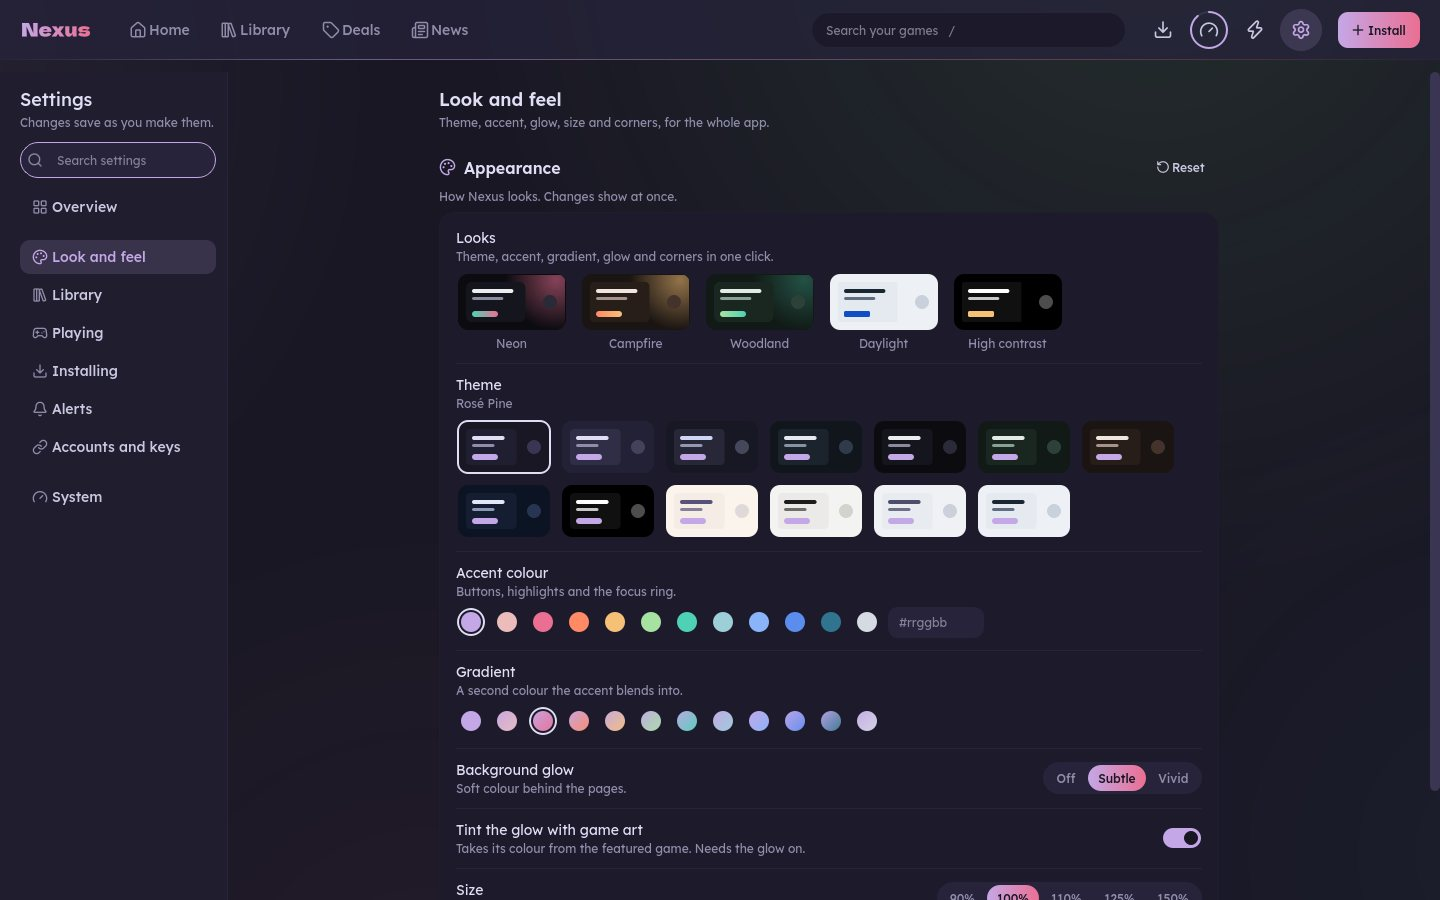
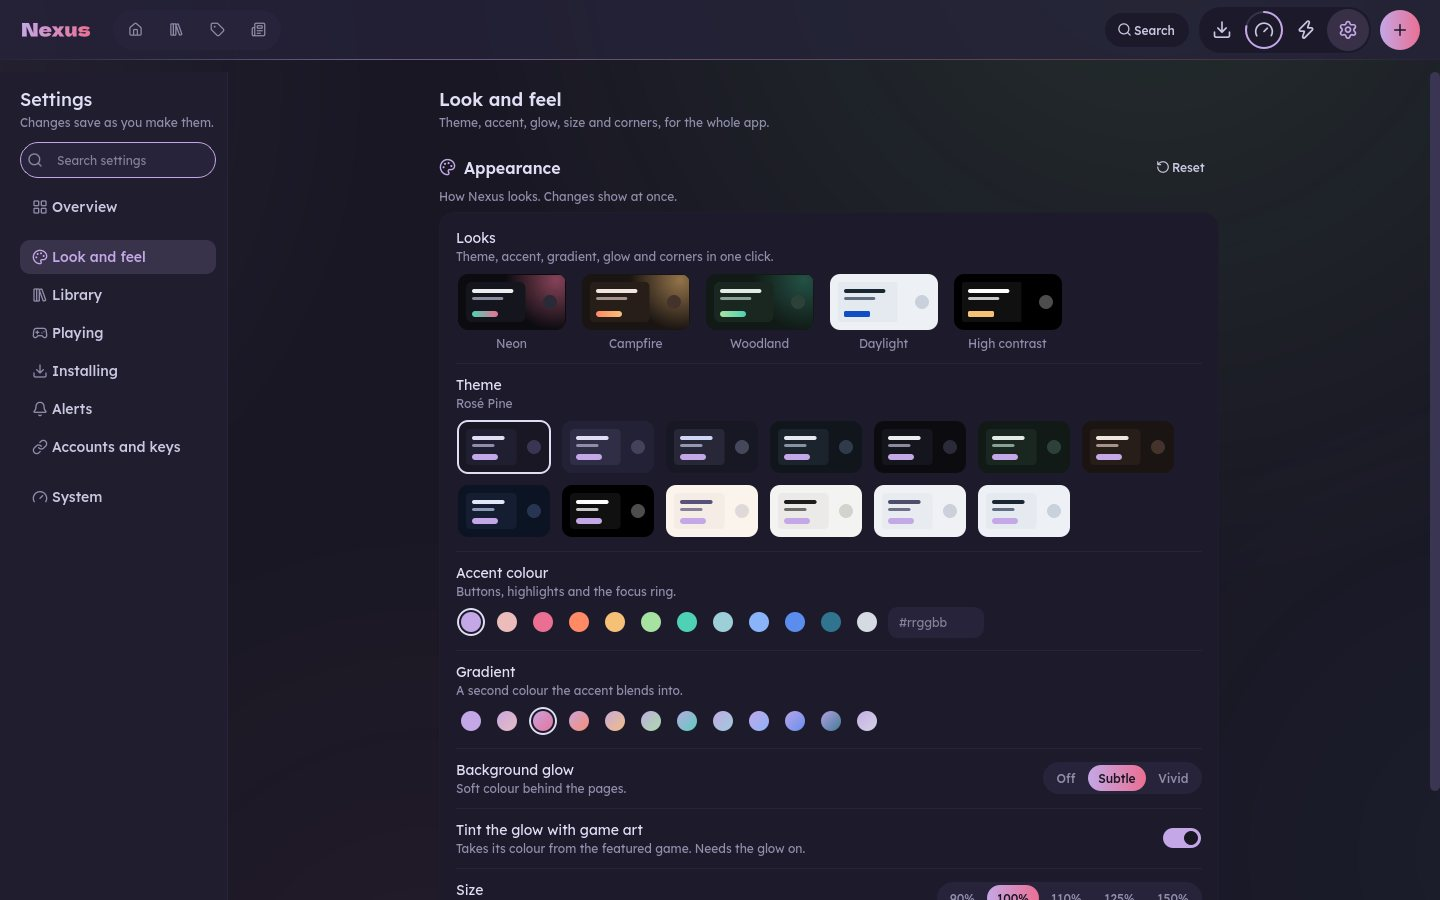
Windows fit for the Library redesign; README screenshots
Caught by the Windows VM (wider fonts):
- Filter popover grows to what its rows need (size hints, chips wrap,
  the card border counted): Installed / Not installed / Everything was
  squeezed.
- Studio and category titles shrink (down to 60 %) before eliding:
  "SQUARE ENIX" showed as "SQUARE E...".
- Stat block puts as many numbers a row as fit, down to one: at Size 1.5
  two a row still clipped.

README screenshots re-rendered for the new Library and top bar.

diff --git a/nexus/gui/category.py b/nexus/gui/category.py
@@ -14,7 +14,7 @@ a strip over the List."""
 import math
 
 from PyQt6.QtCore import pyqtSignal, QPoint, QPointF, QRectF, Qt, QTimer
-from PyQt6.QtGui import (QColor, QFont, QLinearGradient, QPainter, QPainterPath, QPen, QPixmap,
+from PyQt6.QtGui import (QColor, QFont, QFontMetrics, QLinearGradient, QPainter, QPainterPath, QPen, QPixmap,
     QRadialGradient)
 from PyQt6.QtWidgets import (QApplication, QComboBox, QFrame, QGridLayout, QHBoxLayout, QLabel, QMenu, QPushButton,
     QScrollArea, QSizePolicy, QStackedWidget, QVBoxLayout, QWidget)
@@ -522,8 +522,9 @@ class MosaicHeader(_HeaderActions, _Mosaic):
 class StatBlock(QWidget):
     """The header's numbers, big, each over its label with a hairline
     between: [('14', 'games'), ('228 h', 'played'), ...] (set_items).
-    fit(width) puts them on one row, or two per row when one row would be
-    cut (Size 1.5 at 900 px): never clipped."""
+    fit(width) puts them on one row, or as many a row as fit when one row
+    would be cut (Size 1.5 at 900 px; one a row with Windows' fonts): never
+    clipped."""
 
     def __init__(self):
         super().__init__()
@@ -570,11 +571,21 @@ class StatBlock(QWidget):
         return (sum(b.sizeHint().width() for b in self._boxes)
                 + max(0, n - 1) * (1 + 2 * sp))
 
+    def _row_width(self, per_row: int) -> int:
+        """The grid's width with `per_row` boxes a row: each column as wide
+        as its widest box, a hairline and two gaps between columns."""
+        sp = self._lay.horizontalSpacing()
+        cols = [max(b.sizeHint().width() for b in self._boxes[c::per_row])
+                for c in range(min(per_row, len(self._boxes)))]
+        return sum(cols) + max(0, len(cols) - 1) * (1 + 2 * sp)
+
     def _choose(self, width: int) -> int:
+        """As many a row as fit (one row when it does), never fewer than one:
+        Windows' wider fonts at Size 1.5 don't fit two a row either."""
         n = len(self._boxes)
-        if n <= 2 or width <= 0 or self._one_row_width() <= width:
+        if n <= 1 or width <= 0 or self._one_row_width() <= width:
             return max(1, n)
-        return 2
+        return next((k for k in range(n - 1, 0, -1) if self._row_width(k) <= width), 1)
 
     def _place(self, per_row: int):
         if per_row == self._per_row:
@@ -747,6 +758,24 @@ class CoverWallHeader(_CachedLayer, _HeaderActions, _Mosaic):
         return stat_items(st)
 
     # ---- fitting ----
+    TITLE_MIN = 0.6                  # the smallest a long title shrinks to, of its size
+
+    def _shrink_title(self, w: int):
+        """A title wider than its column gets a smaller font (down to
+        TITLE_MIN) before it is elided: Windows' wider fonts cut "SQUARE
+        ENIX" to "SQUARE E…" on a studio page at 1388 px."""
+        css = ""
+        if self.title.styleSheet():
+            self.title.setStyleSheet("")          # measure at the theme's size
+        self.title.ensurePolished()
+        f = self.title.font()
+        px = f.pixelSize() if f.pixelSize() > 0 else round(f.pointSizeF() * 96 / 72)
+        adv = QFontMetrics(f).horizontalAdvance(self._title)
+        if adv > w and px > 0:
+            css = f"font-size: {max(int(px * self.TITLE_MIN), int(px * w / adv))}px;"
+        if css:
+            self.title.setStyleSheet(css)
+
     def _fit(self):
         """Compact below ~1100 px (a smaller title, the text a little
         wider); the title on one line; Continue's name cut; the header as
@@ -763,7 +792,7 @@ class CoverWallHeader(_CachedLayer, _HeaderActions, _Mosaic):
         w = max(120, int(self.width() * self.TEXT_SHARES[1 if compact else 0]) - m.left())
         self._col_w = w + m.left()
         self.col.setMaximumWidth(w)
-        self.title.ensurePolished()               # the theme's font, not the default
+        self._shrink_title(w)
         self.title.setText(self.title.fontMetrics().elidedText(
             self._title, Qt.TextElideMode.ElideRight, w))
         role = self._tint_role()

diff --git a/nexus/gui/popover.py b/nexus/gui/popover.py
@@ -11,7 +11,7 @@ from PyQt6.QtGui import QColor, QPainter
 from PyQt6.QtWidgets import QFrame, QVBoxLayout, QWidget
 
 from .overlay import Overlay
-from .theme import SP
+from .theme import scaled, SP
 
 
 class Popover(Overlay):
@@ -66,10 +66,13 @@ class Popover(Overlay):
     def _place(self):
         """Under the anchor, its right edges lined up, kept inside."""
         par = self.parentWidget()
-        w = min(self._want_w, par.width() - 2 * SP['4'])
-        w = max(200, w)
-        self.card.setFixedWidth(w)
+        # As wide as asked (at this Size), never narrower than what the
+        # content needs whole (Windows' wider fonts squeezed the switch).
         lay = self.card.layout()
+        border = 2 * max(1, self.card.frameWidth())     # QSS border: 1px a side
+        w = max(scaled(self._want_w), self._content_width(lay) + border)
+        w = max(200, min(w, par.width() - 2 * SP['4']))
+        self.card.setFixedWidth(w)
         need = lay.heightForWidth(w) if lay.hasHeightForWidth() else -1
         if need <= 0:
             need = self.card.sizeHint().height()
@@ -84,6 +87,22 @@ class Popover(Overlay):
         x = max(SP['4'], min(x, par.width() - self.card.width() - SP['4']))
         y = max(SP['4'], min(y, par.height() - h - SP['4']))
         self.card.setGeometry(x, y, self.card.width(), h)
+
+    @staticmethod
+    def _content_width(lay) -> int:
+        """The card width its rows want whole: each row's size hint, but a
+        wrapping row (a FlowLayout of chips) only its minimum (it wraps)."""
+        m = lay.contentsMargins()
+        need = 0
+        for i in range(lay.count()):
+            it = lay.itemAt(i)
+            w = it.widget()
+            inner = w.layout() if w is not None else it.layout()
+            if w is not None and w.isHidden():
+                continue
+            wraps = inner is not None and inner.hasHeightForWidth()
+            need = max(need, (it.minimumSize() if wraps else it.sizeHint()).width())
+        return need + m.left() + m.right()
 
     def refit(self):
         """The content changed size (a row came or went)."""

diff --git a/tests/test_gui_category.py b/tests/test_gui_category.py
@@ -2563,7 +2563,7 @@ class StudioHeaderTest(unittest.TestCase):
                 self.assertGreaterEqual(box.width(), box.sizeHint().width() - 1)
                 self.assertLessEqual(box.geometry().right(), st.width())
             if st._one_row_width() > h.col.maximumWidth():
-                self.assertEqual(st.rows(), 2)
+                self.assertGreaterEqual(st.rows(), 2)
 
 
 @unittest.skipIf(nx is None, "PyQt6 not available")
